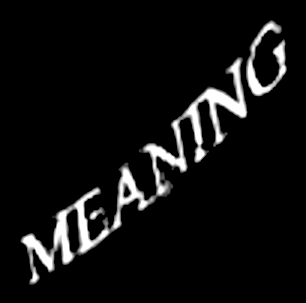
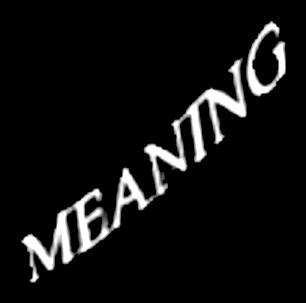
fix(frieze): carved room names no longer crack where an older name crossed them
The frieze words showed cracks of bare stone through their letters (SHARED's
A broke in three, also ALIGNMENT, TRAVEL, LIBRARY, MEANING), in both themes.

Cause: extract.py takes each glyph mask from carved minus blank, but the
"blank" render is not blank. It has older names carved where the new ones sit
(ARCHIVES under SHARED). Where an old stroke crosses a new one both images are
already dark, the difference finds no new groove, and the mask gets a hole the
shape of the old stroke; the stone shows through it. Not the marble's veins:
relative darkening (carved/blank) left the holes exactly as they were.

Fix: the difference still locates the letters, but their depth now comes from
the carved image's own grooves (black top-hat, size 9) inside the mask closed
by a radius-4 disk, enough to bridge those holes. Counters stay open since the
stone there is not dark. No repaint needed; CARVED boxes come out unchanged.

Verified: all seven masks compared old/new (whole letters, no spurs from the
mouldings); home band headless 1600x900 before/after in day and night, cracks
gone in both. npm test 245 pass.

diff --git a/quartz/static/frieze/extract.py b/quartz/static/frieze/extract.py
@@ -43,6 +43,17 @@ dark = ndimage.gaussian_filter(carved, 0.6) - ndimage.gaussian_filter(blank, 0.6
 dark = np.clip(-dark, 0, None)  # positive where the carving darkened the stone
 mask = dark > THRESH
 mask[:120] = mask[400:] = False  # the frieze runs between these rows
+# the "blank" render is not blank: older names are carved where the new ones sit
+# (ARCHIVES under SHARED), and where an old stroke crosses a new one the
+# difference sees no new groove, so the mask came out with crack-shaped holes.
+# The difference only finds the letters; their depth is read from the carved
+# image's own grooves (a black top-hat: dark and thinner than ~9px), inside the
+# mask closed just enough to bridge those holes. A counter stays open, since the
+# stone there is not dark.
+grooves = ndimage.black_tophat(ndimage.gaussian_filter(carved, 0.6), size=9)
+region = ndimage.binary_closing(mask, structure=disk(4))
+dark = np.where(region, np.maximum(dark, grooves), 0)
+mask = region & (dark > THRESH)
 
 # letters of one word sit a few px apart, words ~15px: close the letter gaps,
 # keep the word gaps, then each blob is a word

diff --git a/CLAUDE.md b/CLAUDE.md
@@ -52,7 +52,7 @@ Seven forks so far: `content-index`, `canvas-page`, `obsidian-plugin-excalidraw`
 
 The home hero is `quartz/static/rotunda.png` (1376x768), drawn full-screen and cropped like `background-size: cover` by `.rotunda-stage`; everything over the image is placed in % of that stage, so image px map 1:1 at every size.
 
-- The room names are carved into the image. `quartz/static/frieze/extract.py` diffs it against the same render without the carving and writes one glyph mask per room plus the `CARVED` box table in `vaultbrain.js`; a new image means re-running it, never hand-placing words.
+- The room names are carved into the image. `quartz/static/frieze/extract.py` diffs it against the same render without the carving and writes one glyph mask per room plus the `CARVED` box table in `vaultbrain.js`; a new image means re-running it, never hand-placing words. The "blank" render still carries older names under the new ones, so the diff only locates the letters and their depth comes from the carved image's own grooves; a pure diff leaves crack-shaped holes where old and new strokes cross.
 - The mini-brain box (`#vault-brain` insets in `custom.scss`) is the one thing still set by eye: `npm run tune`, open `/?tune`, drag the box, paste the numbers back.
 - The mini brain seats every note on an even grid inside `BRAIN_OUTLINE` in `vaultbrain.js` (`seatBrain`, rooms get slices sized to their note count), the painted brain traced by hand in image px; a new image means re-tracing it, and `rotunda.test.ts` checks the outline and the spread.
 - **Start the dev server with `dangerouslyDisableSandbox: true`.** The Bash sandbox unshares the network namespace, so a server started inside it prints "listening at 8050" while nothing is bound on the host — the browser gets nothing. Confirm with `ss -ltn | grep :8050`, never with `curl` from inside the sandbox (always `000`).
